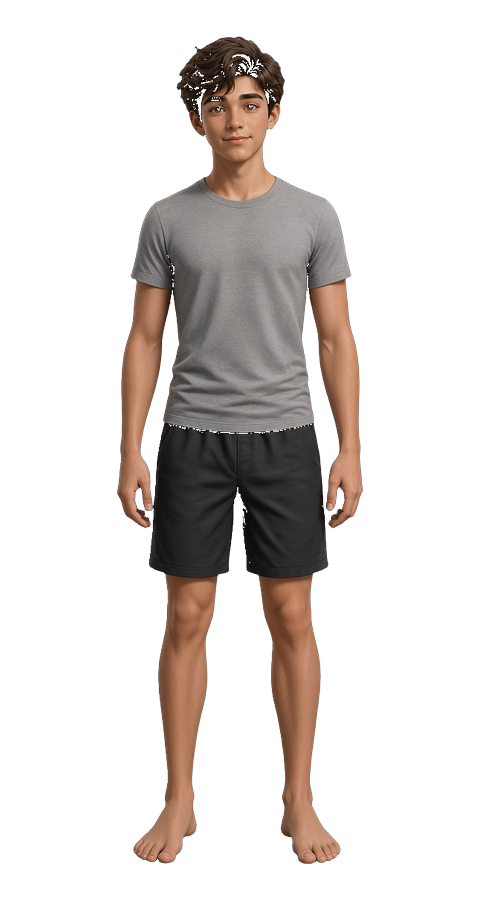
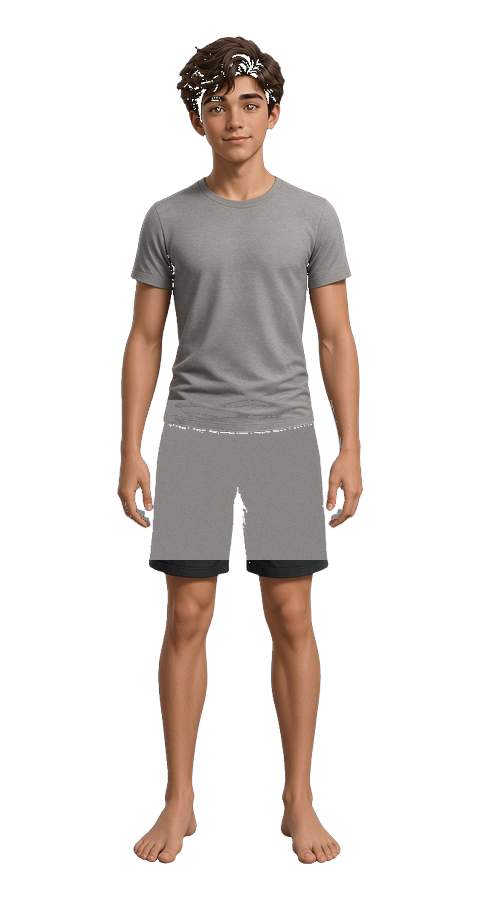
Add global Outerwear Alignment and clean persona bases (A2)
Introduce category-wide outerwear rules (neckline safety, sleeve scale
per persona, open-front cutouts when a top is worn). Clean man/teenBoy
underwear and boy shoes from base PNGs so undressed avatars are barefoot.

Changed region(s): [[0.2812, 0.4356, 0.7188, 0.6222]]

diff --git a/smart-fashion-finder/src/constants/avatarAssets.ts b/smart-fashion-finder/src/constants/avatarAssets.ts
@@ -11,6 +11,7 @@ import {
   slotLayoutFor,
   type GarmentTransform,
 } from '@/constants/garmentLayout';
+import { shouldUseOpenFrontOuter } from '@/constants/outerwearAlignment';
 import { outfitPresentationMode } from '@/constants/outfitPresentation';
 
 export const PERSONA_BASE_IMAGES: Record<AvatarPersona, ImageSourcePropType> = {
@@ -312,6 +313,11 @@ export const GARMENT_LAYER_IMAGES: Record<string, ImageSourcePropType> = {
   'p-denim-jkt': require('../../assets/images/layers/cutouts/denim-jkt.png'),
   'p-leather': require('../../assets/images/layers/cutouts/leather.png'),
   'p-bomber': require('../../assets/images/layers/cutouts/bomber.png'),
+  // Open-front cutouts — מרכז חזה שקוף כשיש Top מתחת (Outerwear Alignment)
+  'p-bomber-open': require('../../assets/images/layers/cutouts/bomber-open.png'),
+  'p-denim-jkt-open': require('../../assets/images/layers/cutouts/denim-jkt-open.png'),
+  'p-leather-open': require('../../assets/images/layers/cutouts/leather-open.png'),
+  'p-hoodie-open': require('../../assets/images/layers/cutouts/hoodie-open.png'),
   'p-dress': require('../../assets/images/layers/cutouts/dress.png'),
   'p-skirt': require('../../assets/images/layers/cutouts/dress.png'),
   'p-sneakers': require('../../assets/images/layers/cutouts/sneakers.png'),
@@ -321,13 +327,16 @@ export const GARMENT_LAYER_IMAGES: Record<string, ImageSourcePropType> = {
   'p-cap': require('../../assets/images/layers/cutouts/hat.png'),
   'p-suit': require('../../assets/images/fit/turn/man_suit_0.png'),
   'p-blazer': require('../../assets/images/layers/cutouts/denim-jkt.png'),
+  'p-blazer-open': require('../../assets/images/layers/cutouts/denim-jkt-open.png'),
   'p-coat': require('../../assets/images/layers/cutouts/leather.png'),
+  'p-coat-open': require('../../assets/images/layers/cutouts/leather-open.png'),
   'p-joggers': require('../../assets/images/layers/cutouts/sport.png'),
   'p-cardigan': require('../../assets/images/layers/cutouts/turtleneck.png'),
   'p-tee-stripe': require('../../assets/images/layers/cutouts/polo.png'),
   'p-tshirt-white': require('../../assets/images/layers/cutouts/oxford.png'),
   'p-tshirt-navy': require('../../assets/images/layers/cutouts/tshirt.png'),
   'p-hoodie-black': require('../../assets/images/layers/cutouts/hoodie.png'),
+  'p-hoodie-black-open': require('../../assets/images/layers/cutouts/hoodie-open.png'),
   'p-jeans-black': require('../../assets/images/layers/cutouts/jeans.png'),
   'p-jeans-light': require('../../assets/images/layers/cutouts/jeans.png'),
 };
@@ -564,26 +573,44 @@ function isSocksPiece(piece: OutfitPiece | undefined): boolean {
   return piece.category === 'Socks' || id === 'p-socks';
 }
 
+function openFrontLayerForId(catalogId: string): ImageSourcePropType | null {
+  return (
+    layerImageForPieceId(`${catalogId}-open`) ??
+    layerImageForPieceId(catalogId.replace(/^p-/, '') + '-open')
+  );
+}
+
 function pushOverlayLayer(
   extras: ResolvedOverlay[],
   piece: OutfitPiece | undefined,
   heightCm: number,
   persona: AvatarPersona,
   skipIds?: string[],
-  /** A1: בערימת שכבות — cutouts נקיים כדי שלא ייאפו גופייה/מכנסיים מתוך נכס עליון */
-  preferCutout = false,
+  opts?: {
+    /** Outerwear מעל Top — cutout פתוח + חוקי יישור גלובליים */
+    hasTopUnderOuter?: boolean;
+  },
 ) {
   if (!piece || isUnderwearPiece(piece) || isSocksPiece(piece)) return;
   const id = pieceCatalogId(piece);
   if (!id || skipIds?.includes(id)) return;
-  // גבר: שכבה מצוירת על הגוף. אחרים / ערימה: בגד נקי בלי ידיים/עור אפויים.
+
+  const slot = piece.slot;
+  const hasTopUnder = Boolean(opts?.hasTopUnderOuter && slot === 'outer');
+  const useOpenFront = shouldUseOpenFrontOuter(id, hasTopUnder);
+
+  // Outerwear מעל חולצה: cutout פתוח (בלי גופייה אפויה) כדי שה־Top יישאר גלוי
+  const preferCutout = useOpenFront || (slot === 'outer' && hasTopUnder);
   const baked = preferCutout ? null : fittedOverlayForId(id, persona);
   const o =
-    baked ?? layerImageForPieceId(id) ?? layerImageForPieceId(piece.id);
+    (useOpenFront ? openFrontLayerForId(id) : null) ??
+    baked ??
+    layerImageForPieceId(id) ??
+    layerImageForPieceId(piece.id);
   if (!o) return;
-  const slot = piece.slot;
-  const mode = baked ? 'baked' : 'cutout';
-  // Standard Fit + Anchor Points — רשת 480×900 אחידה לכל הקטלוג
+
+  const mode = baked && !preferCutout ? 'baked' : 'cutout';
+  // Standard Fit + Anchor / Outerwear Alignment — רשת 480×900
   const layout = slotLayoutFor(persona, slot, mode);
   const fit = garmentFitTransform(
     undefined,
@@ -592,6 +619,7 @@ function pushOverlayLayer(
     layout,
     persona,
     mode,
+    { hasTopUnderOuter: hasTopUnder },
   );
   extras.push({
     src: o,
@@ -602,7 +630,7 @@ function pushOverlayLayer(
     zIndex: fit.zIndex,
     anchor: fit.anchor,
     slot,
-    key: `${id}-anch-${fit.anchor}-${slot}-${baked ? 'b' : 'c'}`,
+    key: `${id}-anch-${fit.anchor}-${slot}-${useOpenFront ? 'open' : baked ? 'b' : 'c'}`,
   });
 }
 
@@ -613,15 +641,16 @@ function resolveOverlayOnlyStack(
   persona: AvatarPersona,
 ): ResolvedOutfit {
   const overlays: ResolvedOverlay[] = [];
-  // Standard Fit baked overlays על רשת 480×900 (+ Anchor nudges).
-  // cutouts נשארים כ־fallback בלבד כשאין baked ל־persona.
+  const hasTopUnderOuter = Boolean(layers.top && layers.outer);
   // סדר ציור / zIndex: מכנסיים → שמלה → חולצה → עליונית → נעליים → כובע
   if (!isUnderwearPiece(layers.bottom)) {
     pushOverlayLayer(overlays, layers.bottom, heightCm, persona);
   }
   pushOverlayLayer(overlays, layers.dress, heightCm, persona);
   pushOverlayLayer(overlays, layers.top, heightCm, persona);
-  pushOverlayLayer(overlays, layers.outer, heightCm, persona);
+  pushOverlayLayer(overlays, layers.outer, heightCm, persona, undefined, {
+    hasTopUnderOuter,
+  });
   if (!isSocksPiece(layers.shoes)) {
     pushOverlayLayer(overlays, layers.shoes, heightCm, persona, ['p-socks']);
   }

diff --git a/smart-fashion-finder/src/constants/outerwearAlignment.ts b/smart-fashion-finder/src/constants/outerwearAlignment.ts
@@ -1,0 +1,129 @@
+import type { AvatarPersona } from '@/types';
+
+/**
+ * Outerwear Alignment System — חוקים גלובליים לכל עליונית
+ * (מעיל / קפוצ׳ון / ז׳קט / ג׳קט ג׳ינס / ווסט / …) ולכל persona.
+ *
+ * מופעל אוטומטית כש־slot === 'outer' (category Outerwear),
+ * בלי כיול ידני לפריט.
+ */
+
+export type OuterwearLayoutRules = {
+  /** Scale אופקי — כיסוי כתפיים/שרוולים מלא */
+  scaleX: number;
+  /** Scale אנכי — בלי לטפס לפנים */
+  scaleY: number;
+  translateX: number;
+  /** חיובי = למטה — Neckline Safety */
+  translateY: number;
+  /**
+   * כשיש Top מתחת — העדף cutout פתוח (open-front)
+   * כדי שהחולצה תיראה במרכז החזה.
+   */
+  preferOpenFrontCutout: boolean;
+};
+
+/** מינימום הזזה למטה לכל עליונית — צוואר/פנים תמיד גלויים */
+export const OUTERWEAR_NECKLINE_MIN_Y = 0.02;
+
+/**
+ * מורפולוגיה לפי דמות — כיסוי זרועות + בטיחות צוואר.
+ * ילדים: scaleX מעט רחב יותר יחסית לכתפיים הצרות.
+ */
+const OUTERWEAR_BY_PERSONA: Record<AvatarPersona, OuterwearLayoutRules> = {
+  man: {
+    scaleX: 1.04,
+    scaleY: 1.0,
+    translateX: 0,
+    translateY: 0.028,
+    preferOpenFrontCutout: true,
+  },
+  woman: {
+    scaleX: 1.03,
+    scaleY: 1.0,
+    translateX: 0,
+    translateY: 0.03,
+    preferOpenFrontCutout: true,
+  },
+  teenBoy: {
+    scaleX: 1.06,
+    scaleY: 1.0,
+    translateX: 0,
+    translateY: 0.035,
+    preferOpenFrontCutout: true,
+  },
+  teenGirl: {
+    scaleX: 1.05,
+    scaleY: 1.0,
+    translateX: 0,
+    translateY: 0.032,
+    preferOpenFrontCutout: true,
+  },
+  boy: {
+    scaleX: 1.08,
+    scaleY: 1.0,
+    translateX: 0,
+    translateY: 0.04,
+    preferOpenFrontCutout: true,
+  },
+  girl: {
+    scaleX: 1.07,
+    scaleY: 1.0,
+    translateX: 0,
+    translateY: 0.038,
+    preferOpenFrontCutout: true,
+  },
+};
+
+/** cutout סגור (אטום במרכז) — צריך הזזה חזקה יותר מ־baked */
+const CUTOUT_EXTRA_Y = 0.055;
+
+/**
+ * חוקי עליונית גלובליים ל־persona + מצב נכס.
+ * `hasTopUnder` — לובשים חולצה מתחת → open-front + neckline בטוח.
+ */
+export function outerwearRulesFor(
+  persona: AvatarPersona,
+  mode: 'baked' | 'cutout',
+  hasTopUnder = false,
+): OuterwearLayoutRules {
+  const base = OUTERWEAR_BY_PERSONA[persona] ?? OUTERWEAR_BY_PERSONA.man;
+  let translateY = Math.max(base.translateY, OUTERWEAR_NECKLINE_MIN_Y);
+  if (mode === 'cutout') {
+    translateY += CUTOUT_EXTRA_Y;
+  }
+  // מעל חולצה — עוד מעט למטה כדי לא לדרוס צווארון
+  if (hasTopUnder) {
+    translateY += 0.01;
+  }
+
+  return {
+    scaleX: base.scaleX,
+    scaleY: base.scaleY,
+    translateX: base.translateX,
+    translateY,
+    preferOpenFrontCutout: base.preferOpenFrontCutout && hasTopUnder,
+  };
+}
+
+/** מזהי cutout פתוחים (מרכז חזה שקוף) — נוצרים מ־`*-open.png` */
+export const OPEN_FRONT_OUTER_IDS = new Set([
+  'p-bomber',
+  'p-denim-jkt',
+  'p-leather',
+  'p-hoodie',
+  'p-hoodie-black',
+  'p-coat',
+  'p-blazer',
+  'p-cardigan',
+]);
+
+/** האם להעדיף נכס open-front עבור מזהה קטלוג */
+export function shouldUseOpenFrontOuter(
+  catalogId: string,
+  hasTopUnder: boolean,
+): boolean {
+  if (!hasTopUnder) return false;
+  const id = catalogId.startsWith('p-') ? catalogId : `p-${catalogId}`;
+  return OPEN_FRONT_OUTER_IDS.has(id) || OPEN_FRONT_OUTER_IDS.has(catalogId);
+}

diff --git a/smart-fashion-finder/scripts/smoke-test.ts b/smart-fashion-finder/scripts/smoke-test.ts
@@ -104,6 +104,11 @@ import {
   SLOT_Z_INDEX,
   STANDARD_FIT,
 } from '../src/constants/overlayAnchors';
+import {
+  OUTERWEAR_NECKLINE_MIN_Y,
+  outerwearRulesFor,
+  shouldUseOpenFrontOuter,
+} from '../src/constants/outerwearAlignment';
 import { outfitPresentationMode } from '../src/constants/outfitPresentation';
 import type { OutfitPiece } from '../src/types';
 
@@ -150,6 +155,23 @@ assert(outerCut.translateY >= 0.07, 'anchor: outer cutout shifted down off face'
 assert(outerCut.scaleY === 1, 'anchor: outer cutout no vertical scale (keeps neck clear)');
 const hatLayout = overlayLayoutFor('woman', 'hat', 'cutout');
 assert(hatLayout.anchor === 'head' && hatLayout.zIndex === SLOT_Z_INDEX.hat, 'anchor: woman hat → head');
+
+// Outerwear Alignment System — גלובלי לכל persona
+const personas = ['man', 'woman', 'teenBoy', 'teenGirl', 'boy', 'girl'] as const;
+for (const p of personas) {
+  const rules = outerwearRulesFor(p, 'baked', true);
+  assert(rules.translateY >= OUTERWEAR_NECKLINE_MIN_Y, `outerwear neckline ${p}`);
+  assert(rules.scaleX >= 1, `outerwear sleeve scaleX ${p}`);
+  assert(rules.preferOpenFrontCutout === true, `outerwear open-front when top under ${p}`);
+  const layout = overlayLayoutFor(p, 'outer', 'cutout', { hasTopUnderOuter: true });
+  assert(layout.translateY >= rules.translateY - 0.001, `outerwear layout uses rules ${p}`);
+}
+assert(shouldUseOpenFrontOuter('p-bomber', true), 'open-front bomber with top');
+assert(!shouldUseOpenFrontOuter('p-bomber', false), 'no open-front without top');
+assert(shouldUseOpenFrontOuter('p-coat', true), 'open-front coat alias');
+const boyOuter = outerwearRulesFor('boy', 'cutout', true);
+const manOuter = outerwearRulesFor('man', 'cutout', true);
+assert(boyOuter.scaleX >= manOuter.scaleX, 'kids outerwear wider sleeve coverage');
 
 // Fitted Look key coverage — parse avatarAssets.ts (avoid require() of PNGs in Node)
 import { readFileSync } from 'node:fs';

diff --git a/smart-fashion-finder/src/constants/overlayAnchors.ts b/smart-fashion-finder/src/constants/overlayAnchors.ts
@@ -1,4 +1,5 @@
 import type { AvatarPersona, OutfitSlot } from '@/types';
+import { outerwearRulesFor } from '@/constants/outerwearAlignment';
 
 /**
  * Standard Fit overlay canvas — PR #14.
@@ -150,16 +151,40 @@ const PERSONA_Y_BIAS: Record<AvatarPersona, Partial<Record<OutfitSlot, number>>>
 
 export type GarmentFitMode = 'baked' | 'cutout';
 
+export type OverlayLayoutOptions = {
+  /** יש חולצה מתחת לעליונית — מפעיל Open-Front + Neckline Safety */
+  hasTopUnderOuter?: boolean;
+};
+
 /**
  * מחזיר layout מלא לסלוט — עוגן + scale/translate + zIndex.
- * זה מקור האמת היחיד ליישור overlays בכל הקטלוג.
+ * Outerwear: חוקים גלובליים מ־outerwearAlignment (כל persona / כל מעיל).
  */
 export function overlayLayoutFor(
   persona: AvatarPersona,
   slot: OutfitSlot,
   mode: GarmentFitMode = 'cutout',
+  options: OverlayLayoutOptions = {},
 ): OverlayAnchorLayout {
   const anchor = SLOT_ANCHOR[slot];
+
+  // —— Outerwear Alignment System (גלובלי לפי קטגוריה) ——
+  if (slot === 'outer') {
+    const rules = outerwearRulesFor(
+      persona,
+      mode,
+      Boolean(options.hasTopUnderOuter),
+    );
+    return {
+      anchor,
+      scaleX: rules.scaleX,
+      scaleY: rules.scaleY,
+      translateX: rules.translateX,
+      translateY: rules.translateY,
+      zIndex: SLOT_Z_INDEX.outer,
+    };
+  }
+
   const base = mode === 'baked' ? SLOT_NUDGE_BAKED[slot] : SLOT_NUDGE_CUTOUT[slot];
   const nudge = base ?? IDENTITY;
   const yBias = PERSONA_Y_BIAS[persona]?.[slot] ?? 0;

diff --git a/smart-fashion-finder/src/constants/garmentLayout.ts b/smart-fashion-finder/src/constants/garmentLayout.ts
@@ -3,9 +3,10 @@ import {
   overlayLayoutFor,
   type GarmentFitMode,
   type OverlayAnchorLayout,
+  type OverlayLayoutOptions,
 } from '@/constants/overlayAnchors';
 
-export type { GarmentFitMode } from '@/constants/overlayAnchors';
+export type { GarmentFitMode, OverlayLayoutOptions } from '@/constants/overlayAnchors';
 
 /** @deprecated — השתמשו ב־OverlayAnchorLayout / overlayLayoutFor */
 export type SlotLayout = {
@@ -61,9 +62,10 @@ export function garmentFitTransform(
   layout: SlotLayout,
   persona: AvatarPersona = 'man',
   mode: GarmentFitMode = 'cutout',
+  options: OverlayLayoutOptions = {},
 ): GarmentTransform {
-  // מעדיפים את מערכת העוגנים המלאה; SlotLayout נשמר לתאימות
-  const anchored = overlayLayoutFor(persona, slot, mode);
+  // מעדיפים את מערכת העוגנים / Outerwear Alignment; SlotLayout לתאימות
+  const anchored = overlayLayoutFor(persona, slot, mode, options);
   return {
     scaleX: anchored.scaleX || layout.bodyScale,
     scaleY: anchored.scaleY || layout.bodyScale,

diff --git a/smart-fashion-finder/docs/upgrade-phases.md b/smart-fashion-finder/docs/upgrade-phases.md
@@ -8,7 +8,8 @@
 |---|--------|--------|
 | **A1** | לוק מלא (עליון+תחתון+עליונית) | כשלובשים כמה שכבות בגד — כולן נשארות גלויות יחד (קומבו Fitted כשקיים לכל השכבות, אחרת בסיס + overlays). לא מסתירים פריט בגלל "דומיננטי יחיד". |
 | **A1b** | Anchor Points (Head→Toe) | רשת עוגנים אחידה על Standard Fit 480×900 ב־`overlayAnchors.ts` + `GameFashionAvatar`: `head` (כובע), `shoulders` (top/outer/dress), `hips` (bottoms — כיסוי בוקסר), `feet` (הנעלה). zIndex: bottom < top < outer < shoes < hat. |
-| **A2** | בסיס בתחתונים בלבד | בסיס הדמות (ו־Fitted Looks) בלי נעליים/בגדים אפויים שלא מהשכבות הפעילות. |
+| **A1c** | Outerwear Alignment | חוקים גלובליים ב־`outerwearAlignment.ts` לכל עליונית ולכל persona: Neckline Safety, כיסוי שרוולים (scaleX), Open-Front cutout כשיש Top מתחת (`*-open.png`). |
+| **A2** | בסיס נקי / יחף | בסיסי כל הדמויות בלי הנעלה אפויה ובלי בוקסר אפוי על המותניים — הלבשה רק דרך overlays. |
 | **A3** | הסרת UI גובה/משקל מההלבשה | Standard Fit קבוע — בלי שליטה ויזואלית בגובה/משקל על הבגד. |
 
 ## Phase B — נכסים וקטלוג
